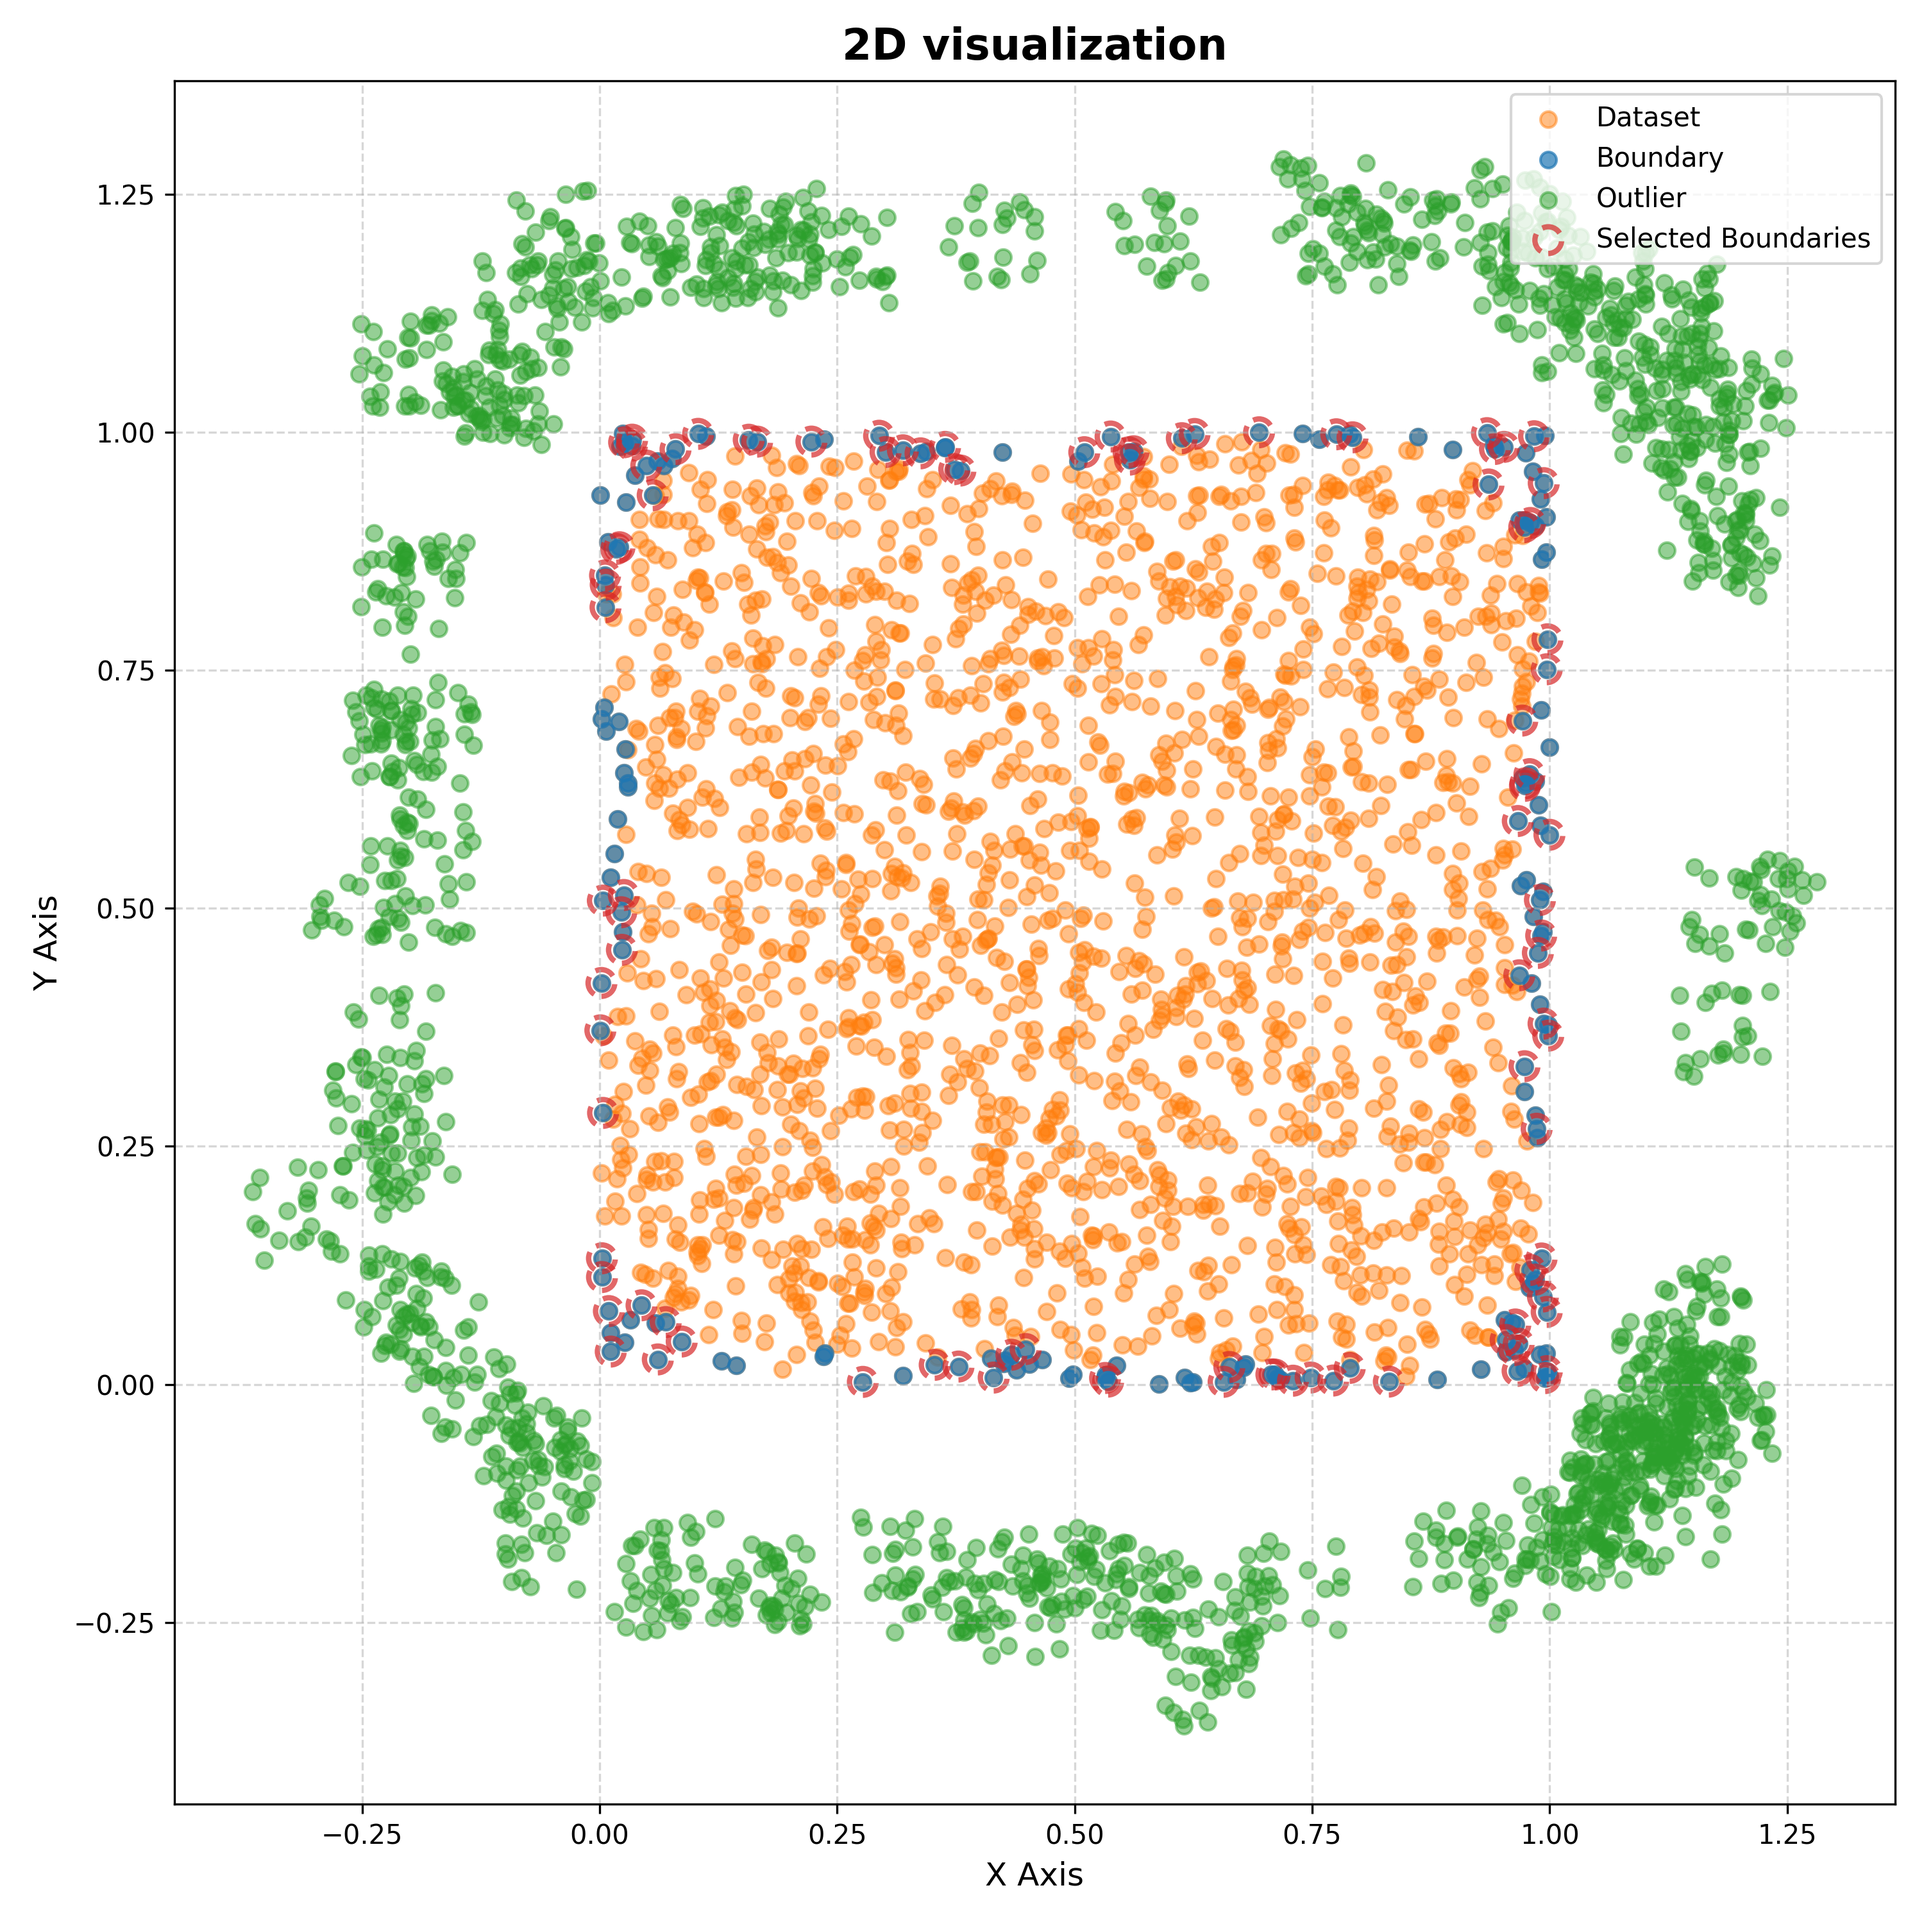
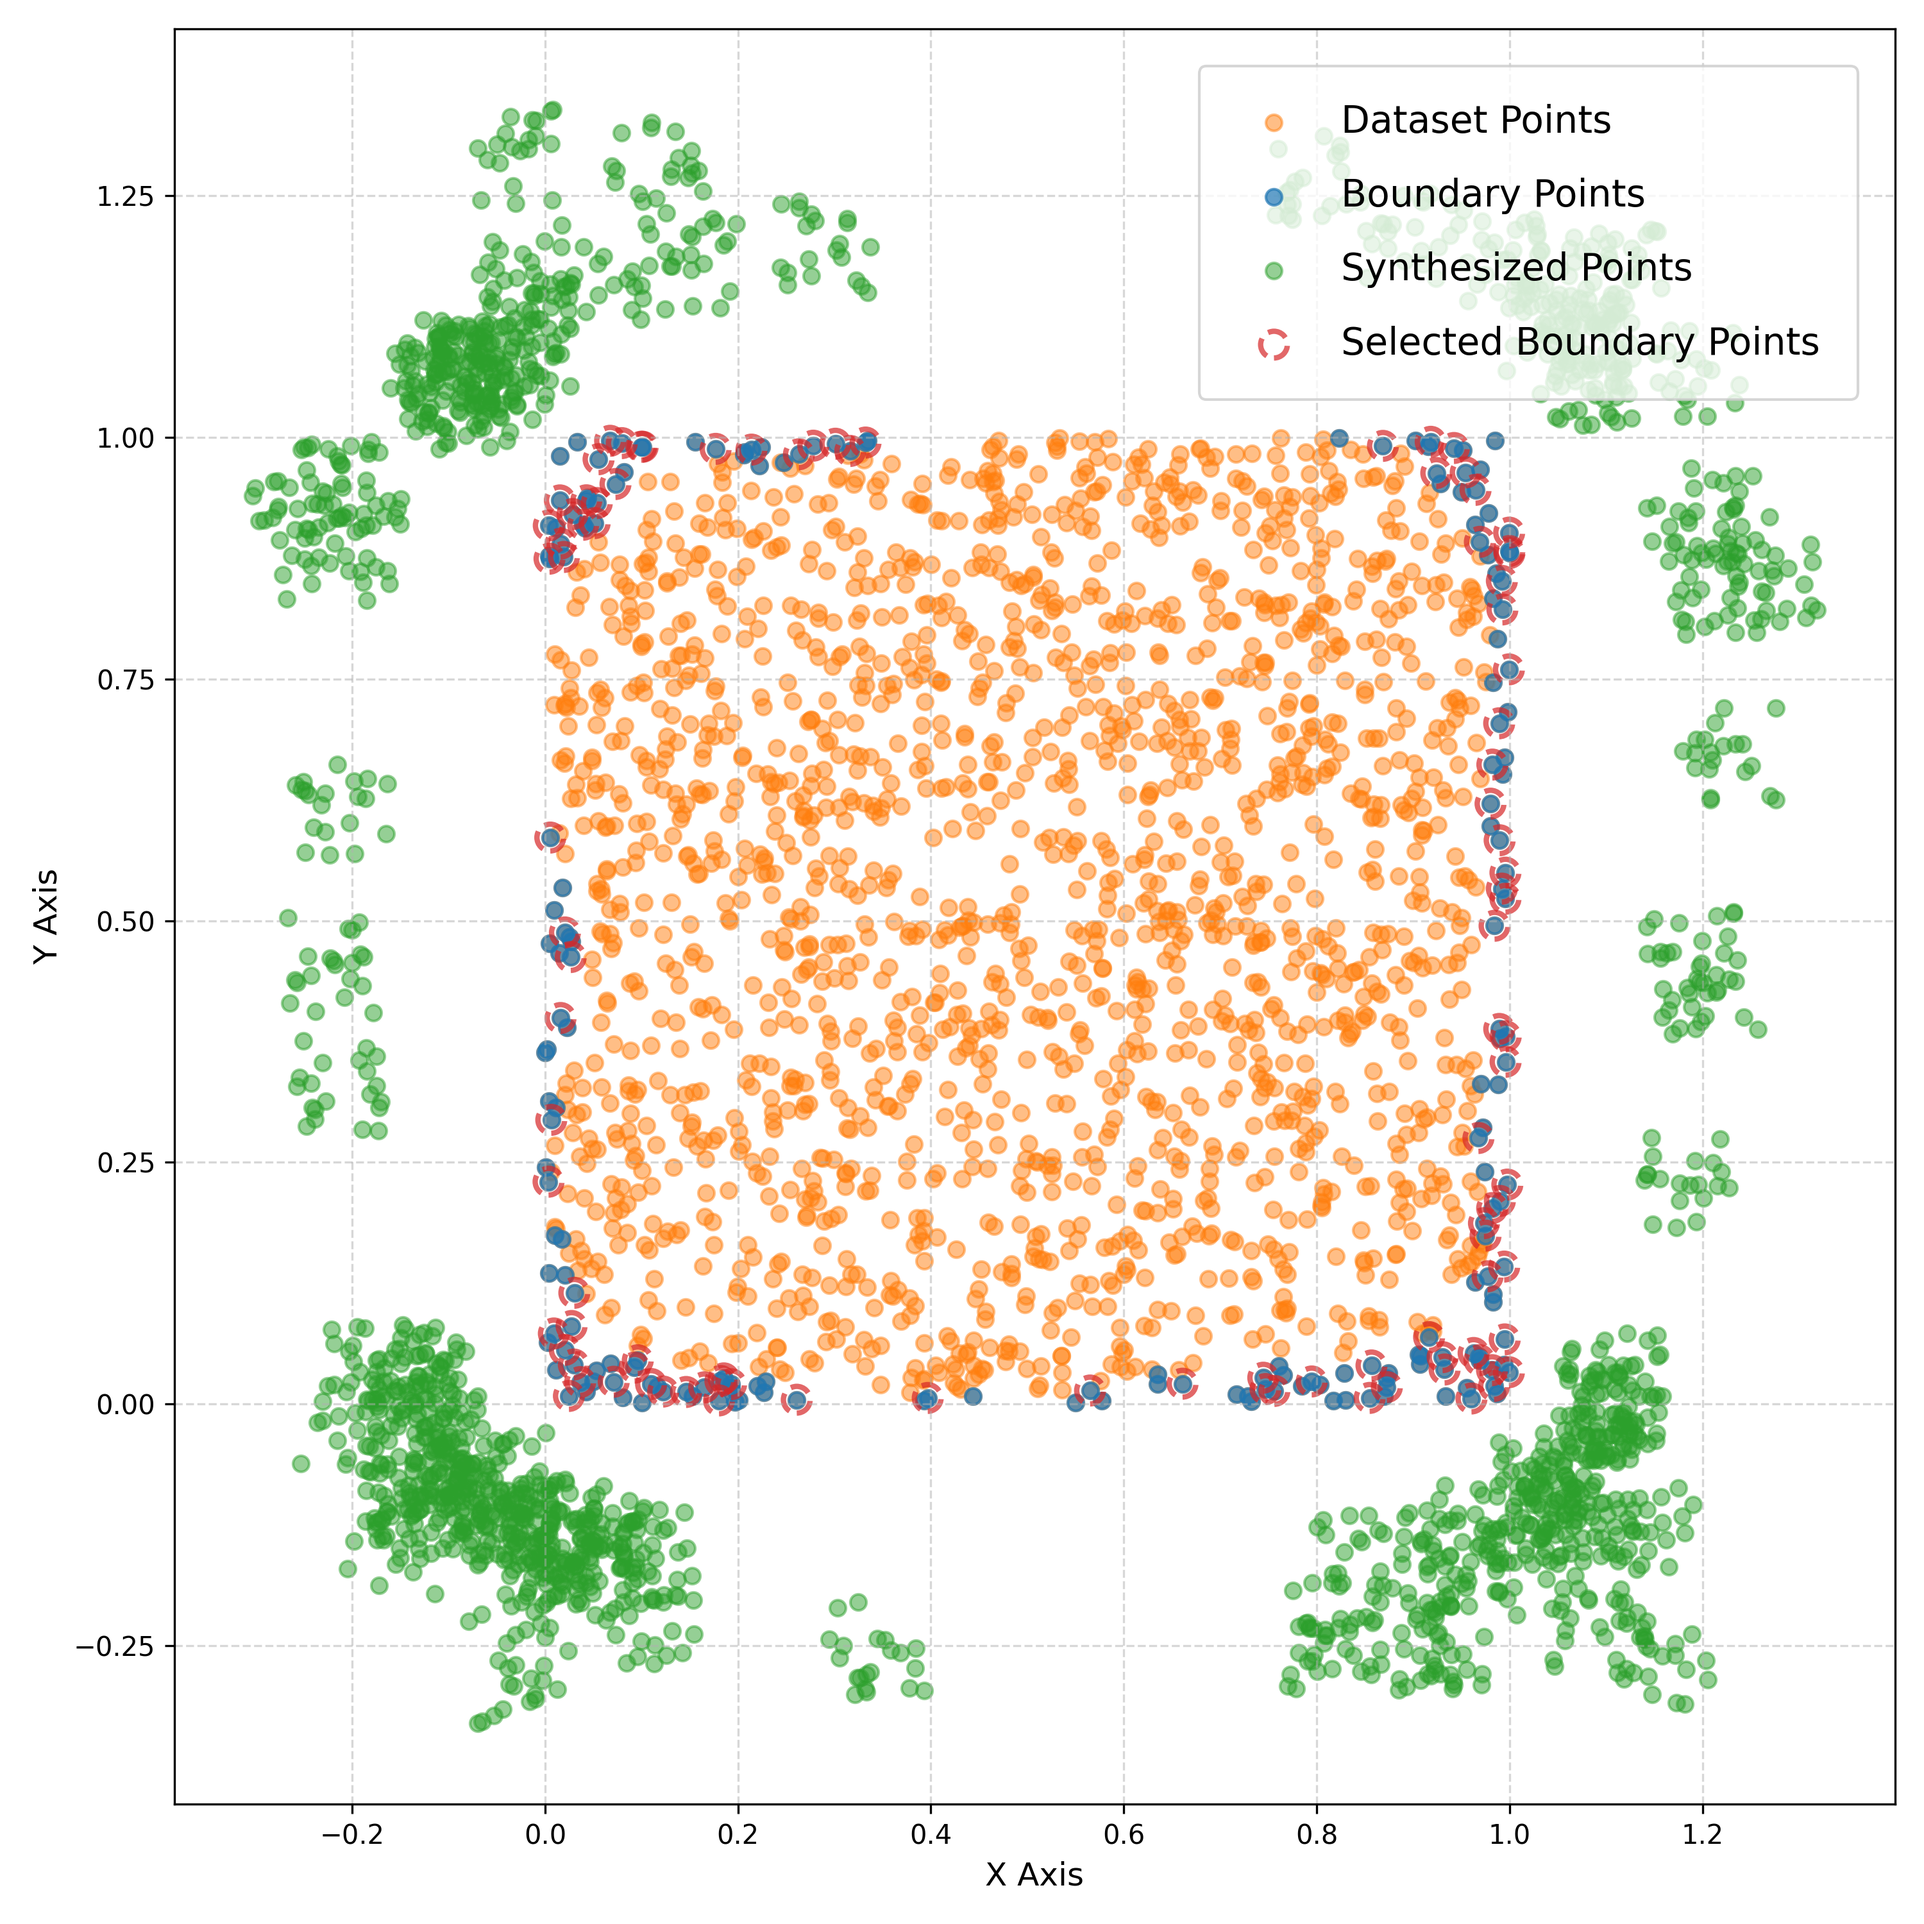
Optimized the legend of visualization.

diff --git a/src/common/visualize.py b/src/common/visualize.py
@@ -1,28 +1,28 @@
 import matplotlib.pyplot as plt
 
 
-def visualize_2D(dataset, all_boundary, boundary, outlier, title="2D Visualization"):
+def visualize_2D(dataset, all_boundary, boundary, outlier):
     plt.figure(figsize=(10, 10))
     scatter_configs = [
         {
             "x": dataset[:, 0],
             "y": dataset[:, 1],
             "c": 'tab:orange',
-            'label': "Dataset",
+            'label': "Dataset Points",
             "alpha": 0.5
         },
         {
             "x": dataset[all_boundary, 0],
             "y": dataset[all_boundary, 1],
             "c": 'tab:blue',
-            'label': "Boundary",
+            'label': "Boundary Points",
             "alpha": 0.7
         },
         {
             "x": outlier[:, 0],
             "y": outlier[:, 1],
             "c": 'tab:green',
-            'label': "Outlier",
+            'label': "Synthesized Points",
             "alpha": 0.5
         }
     ]
@@ -37,7 +37,7 @@ def visualize_2D(dataset, all_boundary, boundary, outlier, title="2D Visualizati
     plt.scatter(
         dataset[boundary, 0],
         dataset[boundary, 1],
-        label="Selected Boundaries",
+        label="Selected Boundary Points",
         alpha=0.7,
         s=100,
         marker='o',
@@ -46,19 +46,17 @@ def visualize_2D(dataset, all_boundary, boundary, outlier, title="2D Visualizati
         linestyle='dashed',
         linewidth=2
     )
-    plt.title(title, fontsize=16, fontweight='bold', pad=8)
     plt.xlabel('X Axis', fontsize=12, labelpad=4)
     plt.ylabel('Y Axis', fontsize=12, labelpad=4)
 
     plt.grid(True, linestyle='--', alpha=0.5)
-    plt.legend(loc='upper right', fontsize=10)
+    plt.legend(loc='upper right', fontsize=14, borderaxespad=1.0, borderpad=1.0, labelspacing=1.0)
     plt.tight_layout()
-
     plt.savefig("visualize_2D.png", dpi=300)
     plt.show()
 
 
-def visualize_3D(dataset, all_boundary, boundary, outlier, title="3D Visualization"):
+def visualize_3D(dataset, all_boundary, boundary, outlier):
     fig = plt.figure(figsize=(10, 10))
     ax = fig.add_subplot(111, projection='3d')
     scatter_configs = [
@@ -67,7 +65,7 @@ def visualize_3D(dataset, all_boundary, boundary, outlier, title="3D Visualizati
             "y": dataset[:, 1],
             "z": dataset[:, 2],
             "c": 'tab:orange',
-            'label': "Dataset",
+            'label': "Dataset Points",
             "alpha": 0.5,
         },
         {
@@ -75,7 +73,7 @@ def visualize_3D(dataset, all_boundary, boundary, outlier, title="3D Visualizati
             "y": dataset[all_boundary, 1],
             "z": dataset[all_boundary, 2],
             "c": 'tab:blue',
-            'label': "Boundary",
+            'label': "Boundary Points",
             "alpha": 0.7,
         },
         {
@@ -83,7 +81,7 @@ def visualize_3D(dataset, all_boundary, boundary, outlier, title="3D Visualizati
             "y": outlier[:, 1],
             "z": outlier[:, 2],
             "c": 'tab:green',
-            'label': "Outlier",
+            'label': "Synthesized Points",
             "alpha": 0.5,
         }
     ]
@@ -103,7 +101,7 @@ def visualize_3D(dataset, all_boundary, boundary, outlier, title="3D Visualizati
         dataset[boundary, 0],
         dataset[boundary, 1],
         dataset[boundary, 2],
-        label="Selected Boundaries",
+        label="Selected Boundary Points",
         alpha=0.7,
         s=100,
         marker='o',
@@ -113,12 +111,11 @@ def visualize_3D(dataset, all_boundary, boundary, outlier, title="3D Visualizati
         linewidth=2
     )
 
-    ax.set_title(title, fontsize=16, fontweight='bold', pad=8)
     ax.set_xlabel('X Axis', fontsize=12, labelpad=4)
     ax.set_ylabel('Y Axis', fontsize=12, labelpad=4)
     ax.set_zlabel('Z Axis', fontsize=12, labelpad=4)
     ax.grid(True, linestyle='--', alpha=0.5)
-    ax.legend()
+    ax.legend(loc='upper right', fontsize=14, borderaxespad=1.0, borderpad=1.0, labelspacing=1.0)
     plt.tight_layout()
     fig.savefig("visualize_3D.png", dpi=300)
     plt.show()

diff --git a/src/outlier/knn.py b/src/outlier/knn.py
@@ -14,8 +14,8 @@ class Outlier:
     sample_points: Tensor
     sample_edges: Tensor
     sample_labels: Tensor
-    all_boundaries: Tensor
-    selected_boundaries: Tensor
+    all_boundary_point_indices: Tensor
+    selected_boundary_point_indices: Tensor
 
 
 def generate_outliers(
@@ -87,21 +87,19 @@ def generate_outliers(
     faiss_index.add(dataset[rand_index].cpu().numpy())
 
     # 找出数据集内每个元素最边界的k个元素，再从中挑取top个，做到挑选整个数据集最边界的元素
-    max_distance_index, max_distance = search_max_distance(
+    all_boundary_point_indices, max_distance = search_max_distance(
         target=dataset,
         index=faiss_index,
         k=k,
         top=num_boundary
     )
 
-    all_boundaries = max_distance_index
-
     # 到此找到了最远的数据点，从最远的集合中随机选择
-    selected_boundaries = max_distance_index[np.random.choice(num_boundary, num_pick, replace=False)]
+    selected_boundary_point_indices = all_boundary_point_indices[np.random.choice(num_boundary, num_pick, replace=False)]
 
     # 重复n次，每一次都补足为采样的length，把这n次结果拼起来，每个采样点贡献n个特征
     sampling_dataset = torch.cat([
-        dataset[index].repeat(num_nodes // num_pick, 1) for index in selected_boundaries
+        dataset[index].repeat(num_nodes // num_pick, 1) for index in selected_boundary_point_indices
     ])
 
     # 生成一个多元高斯分布，均值为0，协方差矩阵为单位矩阵
@@ -147,8 +145,8 @@ def generate_outliers(
         sample_points=sample_points,
         sample_edges=sample_edges,
         sample_labels=sample_labels,
-        all_boundaries=all_boundaries,
-        selected_boundaries=selected_boundaries
+        all_boundary_point_indices=all_boundary_point_indices,
+        selected_boundary_point_indices=selected_boundary_point_indices
     )
 
 
@@ -247,7 +245,7 @@ if __name__ == '__main__':
         num_edges=num_edges,
     )
 
-    visualize_2D(dataset=dataset.cpu(), all_boundary=outliers.all_boundaries, boundary=outliers.selected_boundaries, outlier=outliers.sample_points.cpu())
+    visualize_2D(dataset=dataset.cpu(), all_boundary=outliers.all_boundary_point_indices, boundary=outliers.selected_boundary_point_indices, outlier=outliers.sample_points.cpu())
 
     dataset = torch.rand(2000, 3)
     num_nodes, num_features = dataset.shape[0], dataset.shape[1]
@@ -259,4 +257,4 @@ if __name__ == '__main__':
         num_edges=num_edges,
     )
 
-    visualize_3D(dataset=dataset.cpu(), all_boundary=outliers.all_boundaries, boundary=outliers.selected_boundaries, outlier=outliers.sample_points.cpu())
+    visualize_3D(dataset=dataset.cpu(), all_boundary=outliers.all_boundary_point_indices, boundary=outliers.selected_boundary_point_indices, outlier=outliers.sample_points.cpu())

diff --git a/README.md b/README.md
@@ -119,10 +119,10 @@ Q(\mathbf{x} \mid \text { ID })=\frac{1\left[\hat{\mathbb{P}}_{\text {in }}(\mat
 
 ## Environment
 
-- CentOS Linux 7 (GNU/Linux 3.10.0-1160.el7.x86_64)
+- CentOS Linux 7
 - Tesla V100-SXM2-32GB
-- CUDA NVIDIA-SMI 460.106.00 Driver Version: 460.106.00 CUDA Version: 11.2
-- Python 3.9.2 (default, Mar 3 2021, 20:02:32) [GCC 7.3.0] :: Anaconda, Inc. on linux
+- CUDA Version: 11.8
+- Python 3.9.2
 
 ### Dependency
 
